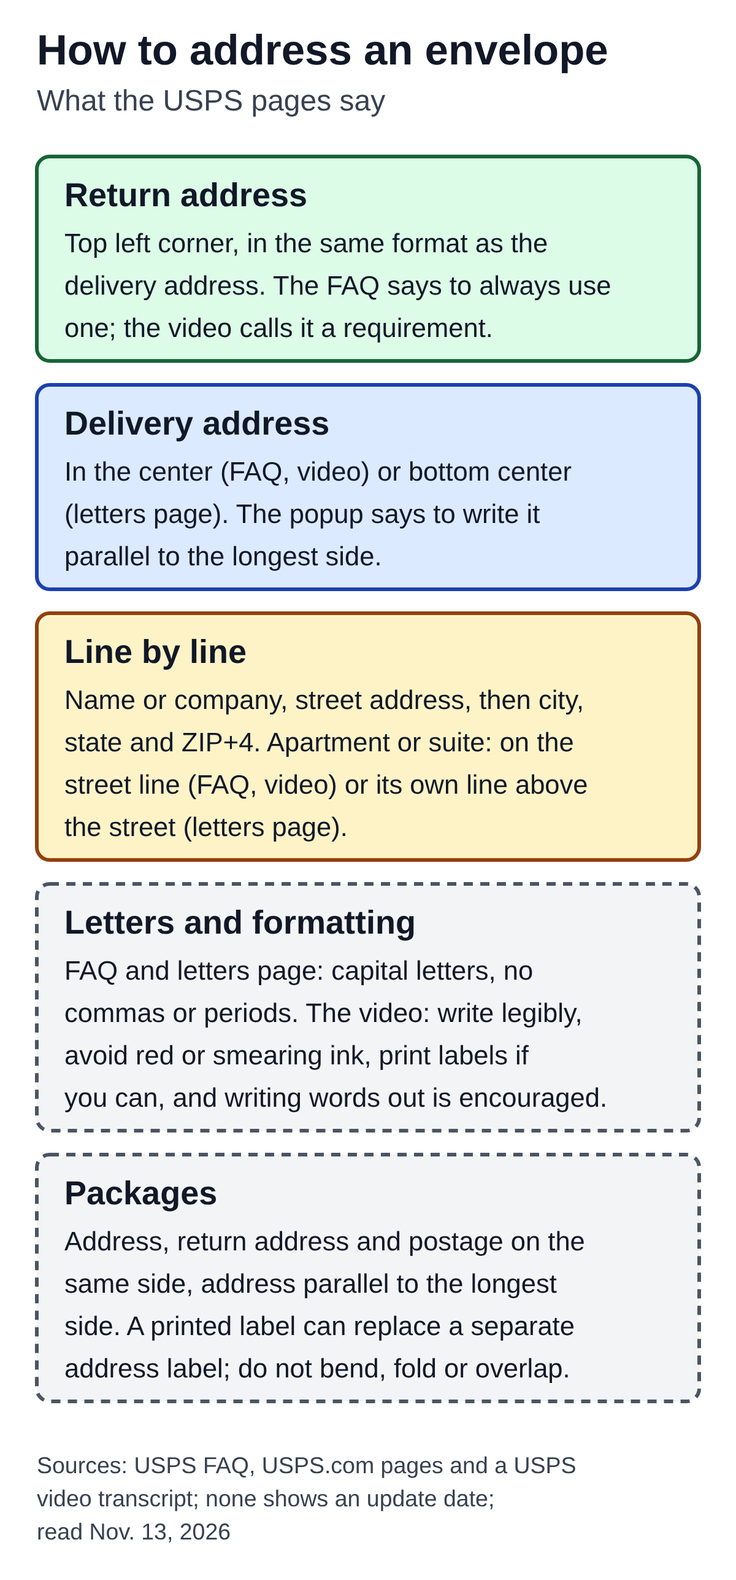
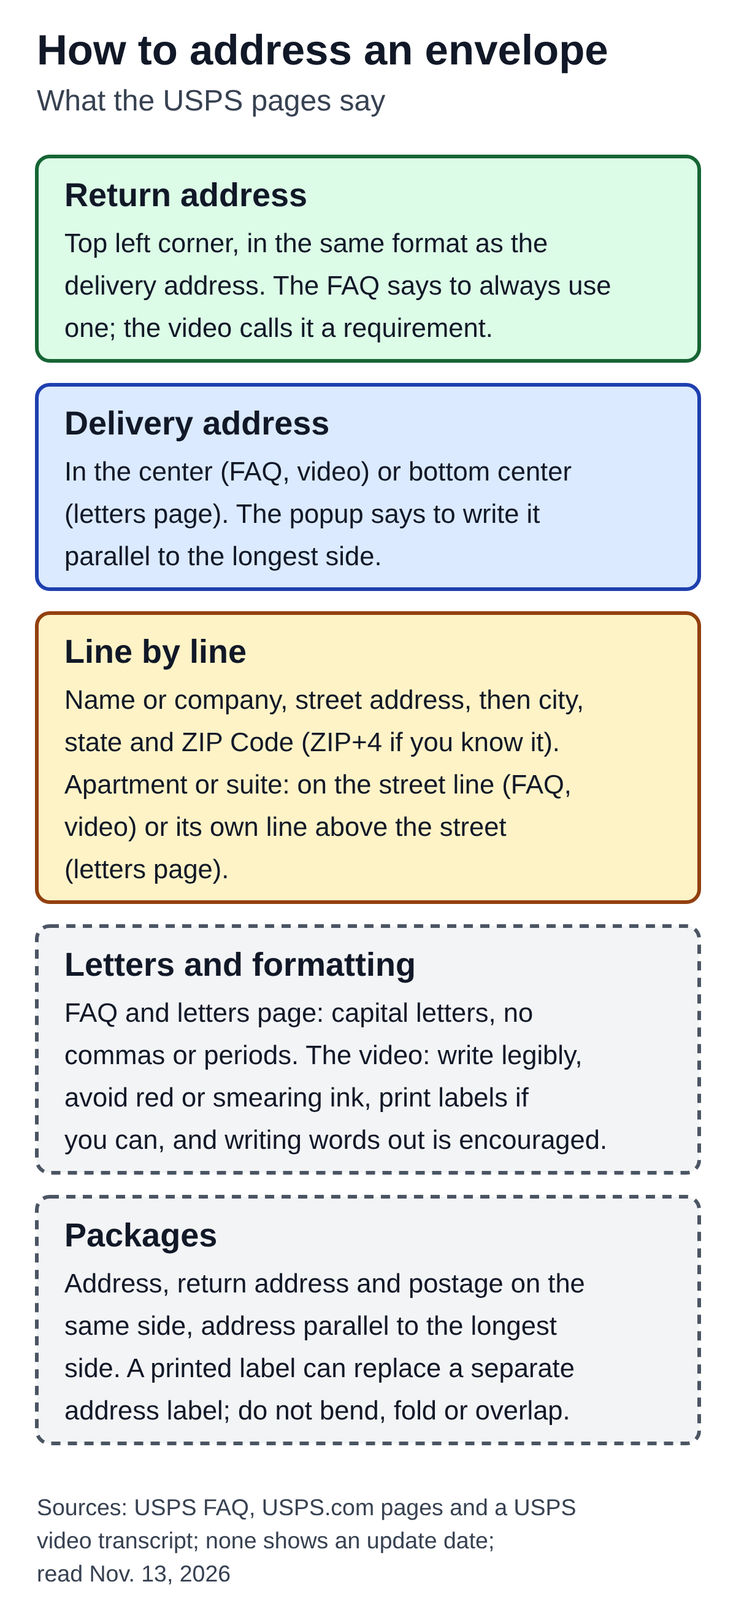
Gate 2 FIX for Missing Mail and how-to-address-an-envelope drafts
Missing Mail: scope the 60-day claim sentence to damaged or missing contents, link the application page, point to USPS File a Claim. Envelope: ZIP+4 only if known (lead, diagram, alt), add a fictional addressed-envelope example with a second image. QA records updated.

Claude-Session: https://claude.ai/code/session_01BXtGEA3Qzg6u2ejRb8jbFU

diff --git a/content/drafts/how-to-address-an-envelope-usps.md b/content/drafts/how-to-address-an-envelope-usps.md
@@ -8,16 +8,18 @@ status: draft
 date: 2026-11-13
 internal_link_candidates: forever-stamp-how-it-works (linked in the body); usps-missing-mail-search-how-it-works (link after it is published)
 image: assets/optimized/how-to-address-an-envelope-usps.png
-image_alt: "Diagram of what USPS pages say about addressing an envelope. Return address: top left corner, in the same format as the delivery address; the FAQ says to always use one and the video calls it a requirement. Delivery address: in the center (FAQ, video) or bottom center (letters page); the popup says to write it parallel to the longest side. Line by line: name or company, street address, then city, state and ZIP+4; the apartment or suite goes on the street line (FAQ, video) or on its own line above the street (letters page). Letters and formatting: the FAQ and letters page say capital letters and no commas or periods; the video says to write legibly, avoid red or smearing ink, print labels if you can, and that writing words out is encouraged. Packages: address, return address and postage on the same side, address parallel to the longest side; a printed label can replace a separate address label, and labels should not be bent, folded or overlapped. Sources: a USPS FAQ, USPS.com pages and a USPS video transcript; none shows an update date; read Nov. 13, 2026."
+image_alt: "Diagram of what USPS pages say about addressing an envelope. Return address: top left corner, in the same format as the delivery address; the FAQ says to always use one and the video calls it a requirement. Delivery address: in the center (FAQ, video) or bottom center (letters page); the popup says to write it parallel to the longest side. Line by line: name or company, street address, then city, state and ZIP Code (ZIP+4 if you know it); the apartment or suite goes on the street line (FAQ, video) or on its own line above the street (letters page). Letters and formatting: the FAQ and letters page say capital letters and no commas or periods; the video says to write legibly, avoid red or smearing ink, print labels if you can, and that writing words out is encouraged. Packages: address, return address and postage on the same side, address parallel to the longest side; a printed label can replace a separate address label, and labels should not be bent, folded or overlapped. Sources: a USPS FAQ, USPS.com pages and a USPS video transcript; none shows an update date; read Nov. 13, 2026."
+image_2: assets/optimized/how-to-address-an-envelope-usps-example.png
+image_2_alt: "Fictional example of an addressed envelope, following the USPS FAQ format. Top left, return address: JANE SAMPLE, 100 MAIN ST APT 2, ANYTOWN NY 12345-6789. Upper right: where the stamp goes. In the center, delivery address: JOHN EXAMPLE, 250 OAK AVE, OTHERTOWN CA 90001. The first ZIP Code is shown with ZIP+4 and the second as a 5-digit ZIP Code, which is what the FAQ says to use when the ZIP+4 is not known. Both names and addresses are made up."
 ---
 
 # How to Address an Envelope: What USPS Says About Format and Placement
 
-**USPS's pages agree on the basics: put the return address in the top left corner, put the delivery address in the middle of the envelope (one page says "bottom center"), and end the address with the city, state and ZIP+4 Code.** They differ on smaller points, such as where an apartment number goes and whether to write words out or abbreviate.
+**USPS's pages agree on the basics: put the return address in the top left corner, put the delivery address in the middle of the envelope (one page says "bottom center"), and end the address with the city, state and ZIP Code, using ZIP+4 if you know it.** They differ on smaller points, such as where an apartment number goes and whether to write words out or abbreviate.
 
 This article covers what five USPS pages say: the FAQ "Addressing Mailpieces" (Article 000008202), the USPS.com page "How to Send a Letter or Postcard," the short USPS.com popup on addressing an envelope, the transcript of the USPS video "How to Address a Package," and step 4 of the USPS.com page "How to Prepare & Send a Package." None of the five shows an update date. The wording is as of November 13, 2026. The article shows where the pages differ instead of choosing one. It gives no postage prices (the letters page lists some, and they are not used here), and it leaves out the FAQ's rules for mailers who get automation discounts.
 
-![Diagram of what USPS pages say about addressing an envelope. Return address: top left corner, in the same format as the delivery address; the FAQ says to always use one and the video calls it a requirement. Delivery address: in the center (FAQ, video) or bottom center (letters page); the popup says to write it parallel to the longest side. Line by line: name or company, street address, then city, state and ZIP+4; the apartment or suite goes on the street line (FAQ, video) or on its own line above the street (letters page). Letters and formatting: the FAQ and letters page say capital letters and no commas or periods; the video says to write legibly, avoid red or smearing ink, print labels if you can, and that writing words out is encouraged. Packages: address, return address and postage on the same side, address parallel to the longest side; a printed label can replace a separate address label, and labels should not be bent, folded or overlapped. Sources: a USPS FAQ, USPS.com pages and a USPS video transcript; none shows an update date; read Nov. 13, 2026.](assets/optimized/how-to-address-an-envelope-usps.png)
+![Diagram of what USPS pages say about addressing an envelope. Return address: top left corner, in the same format as the delivery address; the FAQ says to always use one and the video calls it a requirement. Delivery address: in the center (FAQ, video) or bottom center (letters page); the popup says to write it parallel to the longest side. Line by line: name or company, street address, then city, state and ZIP Code (ZIP+4 if you know it); the apartment or suite goes on the street line (FAQ, video) or on its own line above the street (letters page). Letters and formatting: the FAQ and letters page say capital letters and no commas or periods; the video says to write legibly, avoid red or smearing ink, print labels if you can, and that writing words out is encouraged. Packages: address, return address and postage on the same side, address parallel to the longest side; a printed label can replace a separate address label, and labels should not be bent, folded or overlapped. Sources: a USPS FAQ, USPS.com pages and a USPS video transcript; none shows an update date; read Nov. 13, 2026.](assets/optimized/how-to-address-an-envelope-usps.png)
 
 ## Where each part goes
 
@@ -38,9 +40,15 @@ The pages do not say how far from the edge anything should sit, so "center" and 
 
 ## Line by line
 
-The letters page lists four lines for both the return and the delivery address: the full name or company name, the apartment or suite number, the full street address, and the city, state and ZIP+4 Code. The FAQ describes the same parts with one difference in order: it prefers the apartment, suite, room or floor number on the same line as, and after, the street address, and says the line above the street address is also allowed, "not below." The video transcript agrees with the FAQ that the number "can be added on the same line." So the pages allow the apartment number on the street line (FAQ, video), on its own line above the street (letters page and FAQ), but not below it (FAQ).
+The letters page lists four lines for both the return and the delivery address: the full name or company name, the apartment or suite number, the full street address, and the city, state and ZIP+4 Code (it also says to include the ZIP+4 Code "whenever possible"). The FAQ describes the same parts with one difference in order: it prefers the apartment, suite, room or floor number on the same line as, and after, the street address, and says the line above the street address is also allowed, "not below." The video transcript agrees with the FAQ that the number "can be added on the same line." So the pages allow the apartment number on the street line (FAQ, video), on its own line above the street (letters page and FAQ), but not below it (FAQ).
 
-The FAQ also says to use two-letter state abbreviations and a ZIP+4 Code "if known," otherwise the ZIP Code. The video transcript points to the USPS.com Look Up a ZIP Code tool if the ZIP+4 is unknown. The FAQ says that leaving the ZIP Code off "causes unnecessary delay because it will require manual look-up." For street directions such as north or south, the FAQ says to "always use applicable directionals," and the video says directional words "are required."
+The FAQ also says to use two-letter state abbreviations and a ZIP+4 Code "if known," and otherwise the ZIP Code, so the instruction when the ZIP+4 is not known is to use the five-digit ZIP Code. The video transcript points to the USPS.com Look Up a ZIP Code tool if the ZIP+4 is unknown. The FAQ says that leaving the ZIP Code off "causes unnecessary delay because it will require manual look-up." For street directions such as north or south, the FAQ says to "always use applicable directionals," and the video says directional words "are required."
+
+## A fictional example
+
+The picture below shows one envelope laid out the way the FAQ describes it. The names and addresses are made up. The return address (Jane Sample) is in the top left corner, the stamp is in the upper right corner, and the delivery address (John Example) is in the center. Both are in capital letters with no punctuation, two-letter states, and the apartment number on the street line after the street address. The return address shows a ZIP+4 Code; the delivery address shows only a five-digit ZIP Code, which is what the FAQ says to use when the ZIP+4 is not known. If you prefer the letters page's layout, the apartment number goes on its own line above the street address, and that page puts the delivery address "bottom center" instead of in the center.
+
+![Fictional example of an addressed envelope, following the USPS FAQ format. Top left, return address: JANE SAMPLE, 100 MAIN ST APT 2, ANYTOWN NY 12345-6789. Upper right: where the stamp goes. In the center, delivery address: JOHN EXAMPLE, 250 OAK AVE, OTHERTOWN CA 90001. The first ZIP Code is shown with ZIP+4 and the second as a 5-digit ZIP Code, which is what the FAQ says to use when the ZIP+4 is not known. Both names and addresses are made up.](assets/optimized/how-to-address-an-envelope-usps-example.png)
 
 ## Capital letters, punctuation and abbreviations
 

diff --git a/content/drafts/usps-missing-mail-search-how-it-works.md b/content/drafts/usps-missing-mail-search-how-it-works.md
@@ -15,7 +15,7 @@ image_alt: "Diagram of what USPS pages say about a Missing Mail search. First, c
 
 **USPS says a Missing Mail search request can be filed online starting 7 days after the mailing date and up to 365 days after it.** USPS also says that submitting a search "does not guarantee a successful outcome," and that sometimes it cannot find the item.
 
-This article covers what two USPS pages say: the USPS FAQ "Missing Mail - The Basics" (Article 000007968, dated May 19, 2026) and the USPS.com page "Find Missing Mail" (no update date shown). The wording is as of November 13, 2026. The two pages overlap but are not identical, and the article shows where they differ instead of choosing one. It gives no prices. It does not cover claims and refunds in detail, the USPS Mail Recovery Center, international mail, or packages that tracking shows as delivered.
+This article covers what two USPS pages say about the search: the USPS FAQ "Missing Mail - The Basics" (Article 000007968, dated May 19, 2026) and the USPS.com page "Find Missing Mail" (no update date shown). It also points to a third page, USPS.com "File a Claim," for claims. The wording is as of November 13, 2026. The two search pages overlap but are not identical, and the article shows where they differ instead of choosing one. It gives no prices. It does not cover claims and refunds in detail, the USPS Mail Recovery Center, international mail, or packages that tracking shows as delivered.
 
 ![Diagram of what USPS pages say about a Missing Mail search. First, check tracking: both pages say to check USPS Tracking first, and the FAQ lists waits for some services (Priority Mail Express 7 or more days, Domestic Registered Mail 14 or more, Parcel Select 14 or more). File online: sign in or register at MissingMail.USPS.com; earliest 7 days after mailing, latest 365 days after mailing; drafts expire after 7 days; Customer Care cannot file it for you. Have ready: sender and recipient addresses, mailing date, tracking numbers if you have them, container type, size and color, a detailed description of the contents, and photos if available. USPS says it cannot search for hazardous material, live ammunition, opened hair or beauty products, over-the-counter or prescription drugs, perishables or food; handguns are returned only to a licensed dealer. After you submit: statuses are Accepted, Mailpiece Found, Expired, Rejected and Canceled; a search runs until it expires; USPS says a search does not guarantee a successful outcome. Sources: USPS FAQ dated May 19, 2026 and USPS.com, read Nov. 13, 2026.](assets/optimized/usps-missing-mail-search-how-it-works.png)
 
@@ -23,7 +23,7 @@ This article covers what two USPS pages say: the USPS FAQ "Missing Mail - The Ba
 
 Both pages put tracking first. USPS.com says that if the package or mail has tracking, check USPS Tracking for its current status before starting a search. The FAQ says to check USPS Tracking before taking the actions it describes. USPS.com adds a line for Informed Delivery users: a mail item may sometimes be delayed, and it points to the Informed Delivery FAQs (our [Informed Delivery article](https://statesideexplained.com/usps-informed-delivery-how-it-works/) covers that service).
 
-The FAQ defines Missing Mail as "mail that has not been delivered by the expected delivery date," which it says includes packages that are undelivered, lost or late. If it has been lost, late or missing for 7 days or more, the FAQ lists four options: submit a search request at MissingMail.USPS.com, read the article on the USPS Mail Recovery Center, file a claim (for insured items meeting the appropriate timeframe), or visit a local Post Office.
+The FAQ defines Missing Mail as "mail that has not been delivered by the expected delivery date," which it says includes packages that are undelivered, lost or late. If it has been lost, late or missing for 7 days or more, the FAQ lists four options: submit a search request at [MissingMail.USPS.com](https://missingmail.usps.com/), read the article on the USPS Mail Recovery Center, file a claim (for insured items meeting the appropriate timeframe), or visit a local Post Office.
 
 The FAQ then gives a table by service. In the table below, "wait" is the time the FAQ says to allow, and the last column is what the FAQ says comes next.
 
@@ -46,7 +46,7 @@ The FAQ lists these items: the mailer and recipient addresses; the date of maili
 
 ## How to file, and who cannot do it for you
 
-The FAQ says to go to MissingMail.USPS.com and sign in or register, complete the form and submit it. You can save a draft, but drafts expire after 7 days. The FAQ also says that Customer Care representatives are not able to submit a Missing Mail search request for you. USPS.com says USPS sends a confirmation email when it receives the request and periodic updates about the search.
+The FAQ says to go to [MissingMail.USPS.com](https://missingmail.usps.com/) (the USPS search request page) and sign in or register, complete the form and submit it. You can save a draft, but drafts expire after 7 days. The FAQ also says that Customer Care representatives are not able to submit a Missing Mail search request for you. USPS.com says USPS sends a confirmation email when it receives the request and periodic updates about the search.
 
 ## What USPS says it cannot search for
 
@@ -60,7 +60,9 @@ A single request can list several items inside one mailpiece, but separate mailp
 
 ## Claims and refunds
 
-USPS.com has two more sections under the search steps. For a service with a money-back guarantee, such as Priority Mail Express, it says you may be able to request a refund. For insured mail, it says you may be able to file an insurance claim and that USPS recommends filing "immediately," but "you must file no later than 60 days from the date of mailing." The FAQ's wording is shorter: file a claim "for insured items meeting the appropriate timeframe," with no number. The FAQ also lists "Domestic Claims - The Basics" as a related article, which this article did not read.
+USPS.com has two more sections under the search steps. For a service with a money-back guarantee, such as Priority Mail Express, it says you may be able to request a refund. For mail that included insurance, it says you may be able to file an insurance claim. It then adds a sentence that is limited to "damaged or missing contents": for those, USPS recommends filing a claim "immediately," and says "you must file no later than 60 days from the date of mailing." The page ties that 60-day sentence to damaged or missing contents, so it is not treated here as a deadline for every lost or late item. The FAQ's wording is shorter: file a claim "for insured items meeting the appropriate timeframe," with no number.
+
+For the claim rules themselves, USPS has a separate page, [File a Claim](https://www.usps.com/help/claims.htm). It separates two cases: if an item arrives damaged or is missing contents, it says you must file no later than 60 days after the mailing date; if an item does not arrive at all, it says to file in the time period for the service you used, which differs by service. This article gives no claim amounts or filing periods beyond that. The FAQ also lists "Domestic Claims - The Basics" as a related article, which this article did not read.
 
 ## What the pages do not say
 
@@ -70,3 +72,4 @@ Neither page gives how long a search stays active: the FAQ says a search expires
 
 - USPS FAQ, "Missing Mail - The Basics" (Article 000007968, May 19, 2026): https://faq.usps.com/s/article/Missing-Mail-The-Basics
 - USPS.com, "Find Missing Mail" (no update date): https://www.usps.com/help/missing-mail.htm
+- USPS.com, "File a Claim" (no update date; only the two filing cases described above are used): https://www.usps.com/help/claims.htm

diff --git a/docs/content-backlog.md b/docs/content-backlog.md
@@ -66,7 +66,7 @@ Pilot 12 plan: 12 published + 0 ready + 0 draft + 0 briefs = 12 slots, 4 per lan
 | 30 | `usps-package-pickup-how-it-works` | How Does USPS Package Pickup Work? Free Pickup and Limits | `usps package pickup` | **published 2026-11-09** (post 109, media 108; Gate 1 PASS 24 of 24 claims; Gate 2 round 1 FIX on `5010b89` applied in `8fbce79`, re-check PASS on `8fbce79`; USPS FAQ, USPS.com packages and scheduling pages, DMM 116, 126, 136, 601 and Notice 123 re-read right before publishing, no change) | post-pilot (not counted) | Lane: postal service and stamps. Chosen 2026-11-09 with row 29. Three USPS pages (FAQ, USPS.com packages page, Schedule a Pickup page; none shows a date) plus Notice 123 linked only. No fee or price amount. Demand: Google Trends relative indexes only; search volume not checked. Difference shown, not resolved: FAQ cutoff "2:00 AM Central Time" vs "before 2:00 am" in the modify note. Media Mail is not named on the eligibility list; the article says nothing about it and links the Media Mail post. Re-read the three pages at approval and right before publishing. |
 | 31 | `tsa-locks-checked-bag-what-tsa-says` | Can You Lock a Checked Bag? What TSA Says About TSA Locks | `tsa lock` | **published 2026-11-13** (post 115, media 113; Gate 1 PASS 18 of 18 claims; Gate 2 FIX on `cd35086` applied in `baa6d7d`, re-check PASS on `baa6d7d`; three TSA pages re-read right before publishing, 43 of 43, no change) | post-pilot (not counted) | Lane: airport security rules. Chosen 2026-11-13 on the user's request for two non-overlapping TSA/airport and USPS candidates. Three TSA pages (Security Screening checked baggage section, Travel Tips "TSA recognized locks", Claims; none shows a date). Demand: Google Trends relative indexes only (tsa lock about 7.4 x the vape anchor, spiky); search volume not checked. Tension shown, not resolved: "may not have to be cut" against "will be forced to remove these products if necessary". No prices. Link: shoes and laptops post. Re-read the three pages at approval and right before publishing. |
 | 32 | `usps-holiday-shipping-deadlines-2026` | USPS Holiday Shipping Deadlines 2026: Send-By Dates for Christmas | `usps holiday shipping deadlines` | **published 2026-11-13** (post 116, media 114; Gate 1 PASS 17 of 17 claims; Gate 2 FIX on `cd35086` applied in `baa6d7d`, re-check PASS on `baa6d7d`; three USPS sources re-read right before publishing, 64 of 64 phrases, footnote placement unchanged) | post-pilot (not counted) | Lane: postal service and stamps. Chosen 2026-11-13 with row 31. Three sources: USPS.com page (no date), USPS release Sept. 22, 2026, USPS FAQ Oct. 14, 2026. Demand: Google Trends relative indexes only; the 12-month average is low (about 0.28 x) and the 2025 daily series ramps from mid-November with a peak Dec. 13 to 19, so chosen on seasonality; search volume not checked. Difference shown, not resolved: Priority Mail Express refund wording (USPS.com page against FAQ), each note named with the table it is attached to (Gate 2 FIX applied). Dated content: re-read all three sources right before publishing. Link: Package Pickup post. |
-| 33 | `usps-missing-mail-search-how-it-works` | USPS Missing Mail Search: When You Can File and What You Need | `usps missing mail` | draft (Gate 1 done 2026-11-13; waiting for Gate 2 by SHA; Gate 1 claims 16 of 16; both USPS sources tested again, 62 of 62 and 20 of 20 phrases plus absence tests) | post-pilot (not counted) | Lane: postal service and stamps. Chosen 2026-11-13 on the user's request for two non-overlapping candidates (re-compared with envelope addressing and free boxes). Two sources: USPS FAQ 000007968 (May 19, 2026) and USPS.com "Find Missing Mail" (no date). Demand: Google Trends relative indexes only (usps missing mail about 4.5 x the vape anchor, usps lost package about 2.8 x); search volume not checked. Differences shown, not resolved: the FAQ's 14-day rows against the 7-day application minimum; claim timing (60 days on USPS.com, "meeting the appropriate timeframe" in the FAQ); the handgun note. No prices. Links: Informed Delivery, Package Intercept, Certified Mail posts. Re-read both pages at approval and right before publishing. |
+| 33 | `usps-missing-mail-search-how-it-works` | USPS Missing Mail Search: When You Can File and What You Need | `usps missing mail` | draft (Gate 1 done 2026-11-13; waiting for Gate 2 by SHA; Gate 1 claims 16 of 16; both USPS sources tested again, 62 of 62 and 20 of 20 phrases plus absence tests) | post-pilot (not counted) | Lane: postal service and stamps. Chosen 2026-11-13 on the user's request for two non-overlapping candidates (re-compared with envelope addressing and free boxes). Two sources: USPS FAQ 000007968 (May 19, 2026) and USPS.com "Find Missing Mail" (no date). Demand: Google Trends relative indexes only (usps missing mail about 4.5 x the vape anchor, usps lost package about 2.8 x); search volume not checked. Differences shown, not resolved: the FAQ's 14-day rows against the 7-day application minimum; claim timing (USPS.com's 60 days is limited to damaged or missing contents of insured mail; the FAQ says "meeting the appropriate timeframe"); the handgun note. No prices. Links: Informed Delivery, Package Intercept, Certified Mail posts. Re-read both pages at approval and right before publishing. |
 | 34 | `how-to-address-an-envelope-usps` | How to Address an Envelope: What USPS Says About Format and Placement | `how to address an envelope` | draft (Gate 1 done 2026-11-13; waiting for Gate 2 by SHA; Gate 1 claims 19 of 19; five USPS sources tested again, 21 of 21, 18 of 18, 5 of 5, 14 of 14 and 3 of 3 phrases plus absence tests) | post-pilot (not counted) | Lane: postal service and stamps. Chosen 2026-11-13 with row 33. Five sources, none with an update date: USPS FAQ 000008202, USPS.com letters page, address popup, video transcript "How to Address a Package", package page step 4. Demand: Google Trends relative indexes only (how to address an envelope about 6.2 x the vape anchor, how to address a package about 3.9 x); search volume not checked. Differences shown, not resolved: center against bottom center; where the apartment number goes; abbreviations against writing words out; "always" and "a requirement" against "required on certain types of mail". Mailer rules left out; no prices (the letters page lists some, not used). Link: Forever stamp post. Re-read the five pages at approval and right before publishing. |
 
 ## Rejected

diff --git a/editorial/qa/usps-missing-mail-search-how-it-works.md b/editorial/qa/usps-missing-mail-search-how-it-works.md
@@ -29,7 +29,7 @@ After drafting, both pages were opened again in the built-in browser (2026-11-13
 | C11 | Unsearchable list (hazardous material, live ammunition, opened hair or beauty products, over-the-counter and prescription drugs, perishables and food) and the handgun note; "not safe to forward"; the recovery restrictions page was not read | S1; S2 | pass |
 | C12 | Six statuses and their meanings; updates by email to the address under "Whom can we contact about this search?"; final email; found items rewrapped and sent to the address on the form; not found: runs until it expires | S1 | pass |
 | C13 | Several items in one mailpiece in one request; separate mailpieces separate requests; only the contents can be edited, otherwise cancel and resubmit; cancel from Search History; no further matches after cancel | S1 | pass |
-| C14 | USPS.com: refund for money-back guarantee services such as Priority Mail Express; insured mail claim, "immediately," no later than 60 days from mailing; the FAQ says "meeting the appropriate timeframe" with no number | S2; S1 | pass |
+| C14 | USPS.com: refund for money-back guarantee services such as Priority Mail Express; insured mail may be claimed; the "immediately" and 60-day sentence is limited to "damaged or missing contents" (scope corrected after Gate 2); the FAQ says "meeting the appropriate timeframe" with no number | S2; S1 | pass (after FIX) |
 | C15 | Absence statements: no retention length, no update frequency, no find rate, no fee, no sentence on who may file; the FAQ intro says "whether you are sending it or receiving it" | S1; S2 (absence tested) | pass |
 | C16 | Domestic Claims article listed as related and not read | S1 | pass |
 
@@ -46,3 +46,10 @@ One H1 in the body, H2 sections only, a single 3-column table (mobile-safe, post
 - Confirm the handling of the Registered Mail and Parcel Select 14-day rows against the 7-day application rule (shown, not resolved).
 - Confirm the claim timing paragraph reads as a source difference and not as claim advice.
 - Dated rule post: both sources are re-read right before publishing; report before publishing if the window, the table, the unsearchable list, the statuses or the claim wording changed.
+
+## Gate 2 FIX on `a2f1755` (applied 2026-11-13)
+
+1. **Scope of the 60-day claim sentence.** The reviewer read the draft as applying 60 days to all insured mail. Cause: the draft quoted the sentence without its lead-in. USPS.com's sentence begins "For damaged or missing contents" (S2 page text, tested again). Fix: the Claims and refunds section now says the sentence is limited to damaged or missing contents of insured mail, says it is not treated as a deadline for every lost or late item, and points to USPS "File a Claim" (S3, https://www.usps.com/help/claims.htm). S3 was fetched and tested 6 of 6 phrases (no update date): it separates "Damaged or Missing Contents" (no later than 60 days after the mailing date) from "Lost Mail or Package" (the time period for the service used); no table value is used. The Sources list, the scope paragraph, the brief, the backlog row and the candidates note were changed to match.
+2. **Application link.** The two body mentions of MissingMail.USPS.com are now links to https://missingmail.usps.com/, the target of "Start Your Missing Mail Search" on S2 (the link target was read from the page; a no-cors request returns an opaque response, so only the page's own href is relied on).
+3. **FAQ check.** The reviewer could not open the FAQ. It opened for Claude on 2026-11-13 and was tested 62 of 62 (the only miss is the related-articles title outside the article body), including the 7 and 365 day window, the per-service table and the unsearchable list; the verbatim lines are in the source notes (S1). Re-read the FAQ right before publishing.
+Changed parts only: the scope paragraph, the two links, the Claims and refunds section and the Sources list. The diagram and its alt do not mention claims and are unchanged.

diff --git a/research/sources/usps-missing-mail-search-how-it-works.md b/research/sources/usps-missing-mail-search-how-it-works.md
@@ -27,13 +27,18 @@ URL https://www.usps.com/help/missing-mail.htm. No update date; an ALERT banner 
 Step 1: "if your package or mail has tracking, check USPS Tracking to see its current status"; Informed Delivery users: "There may be occasions where a mail item may be delayed in reaching its destination. For additional information, please visit Informed Delivery FAQs."
 Step 2: "Missing Mail search requests can be submitted starting 7 days from mailing." Information: sender mailing address; recipient mailing address; size and type of container or envelope; identifying information such as the USPS Tracking number(s), the mailing date from the mailing receipt or Click-N-Ship label receipt; description of the contents (brand, model, color, size); pictures.
 Next: a confirmation email and periodic updates; "If we find your package or mail, we will send it to the address you provided. Please note, sometimes we cannot find missing mail items. It is also possible that your package or mail will not be recovered because it was not safe to forward." Link: "Missing Mail Recovery Restrictions" (not read).
+Link targets on the page: "Start Your Missing Mail Search" goes to https://missingmail.usps.com/; "Filing a Claim" goes to https://www.usps.com/help/claims.htm.
 Requesting a Refund: "If you used a service with a money-back guarantee such as Priority Mail Express, you may be able to request a refund."
-File a Claim: "If your mail or package included insurance, you may be able to file an insurance claim. For damaged or missing contents, we recommend filing a claim immediately, but you must file no later than 60 days from the date of mailing."
+File a Claim: "If your mail or package included insurance, you may be able to file an insurance claim. For damaged or missing contents, we recommend filing a claim immediately, but you must file no later than 60 days from the date of mailing." The 60-day sentence begins "For damaged or missing contents" and is limited to that case (Gate 2 FIX on a2f1755).
 Absence tests: no "365", no fee or cost, no "fourteen" or "14 days", no "retention", no update date.
 
 ## Differences shown in the article (not resolved)
 
 1. FAQ table: allow 14 or more days (Registered Mail, Parcel Select) and 7 or more (Priority Mail Express); the application accepts requests from day 7 (FAQ, USPS.com).
 2. FAQ gives the 365-day latest day; USPS.com gives only the 7-day start.
-3. Claim timing: FAQ "meeting the appropriate timeframe"; USPS.com "no later than 60 days from the date of mailing."
+3. Claim timing: the FAQ says "meeting the appropriate timeframe" with no number; USPS.com gives 60 days only for damaged or missing contents. The article does not apply the 60 days to every lost item (Gate 2 FIX).
 4. The FAQ's list of items USPS "cannot search for or return" includes handguns, with a note that they are returned only to a licensed dealer.
+
+## S3 — USPS.com, "File a Claim" (primary, official; added after Gate 2 FIX on `a2f1755`, pointer only)
+
+URL https://www.usps.com/help/claims.htm (reached from the "Filing a Claim" link on S2). Fetched and tested 2026-11-13; no update date. Section "Filing Periods": "Each mail service has a different filing period. The filing period is based on the mailing date on your receipt and whether your package arrived damaged." "Damaged or Missing Contents: If your item arrives damaged or is missing contents, you may file a claim immediately but must file no later than 60 days after the mailing date." "Lost Mail or Package: If your item does not arrive at all, file a claim in the time period for the service you used." The page has a table of filing periods by service; none of its values is used. Used only for the two cases above and as the link target for claims.

diff --git a/editorial/qa/how-to-address-an-envelope-usps.md b/editorial/qa/how-to-address-an-envelope-usps.md
@@ -1,6 +1,6 @@
 # QA record — how-to-address-an-envelope-usps
 
-Article: `content/drafts/how-to-address-an-envelope-usps.md` (draft, 2026-11-13; about 1,230 body words without the alt text; one H1, eight H2 sections; one table of 3 columns).
+Article: `content/drafts/how-to-address-an-envelope-usps.md` (draft, 2026-11-13; about 1,400 body words without the alt texts; one H1, nine H2 sections; one table of 3 columns; two images).
 Brief: `research/briefs/how-to-address-an-envelope-usps.md`. Sources: `research/sources/how-to-address-an-envelope-usps.md` (S1 USPS FAQ 000008202; S2 USPS.com letters page; S3 USPS.com popup; S4 USPS video transcript; S5 USPS.com packages page, step 4; none shows an update date).
 Stage: **draft, Gate 1 done 2026-11-13; waiting for Gate 2 (by SHA).** Rule-type post: re-read the five sources right before publishing.
 
@@ -49,3 +49,9 @@ One H1, H2 sections only, a single 3-column table (mobile-safe), prose with a bu
 - Confirm that the apartment number paragraph reads as a source difference (FAQ: same line preferred, line above allowed; letters page: its own line above) and not as a recommendation.
 - Confirm the "always" against "required on certain types of mail" paragraph is shown without resolving.
 - Dated rule post: re-read the five pages right before publishing; report before publishing if the placement, apartment, capitals, return address or foreign return address wording changed.
+
+## Gate 2 FIX on `a2f1755` (applied 2026-11-13)
+
+1. **ZIP+4 read as required.** The lead answer and the diagram's "Line by line" card said "ZIP+4". The FAQ says: "Use a ZIP+4 ZIP Code (if known) on last line following city and state. Otherwise, use the ZIP Code." (S1, tested again). Fix: the lead now says "city, state and ZIP Code, using ZIP+4 if you know it"; the diagram card reads "state and ZIP Code (ZIP+4 if you know it)"; the front-matter alt and the body alt were changed together and are equal (checked by script); the line-by-line paragraph quotes the letters page's "whenever possible" and says the FAQ's instruction when ZIP+4 is not known is the five-digit ZIP Code. The letters page's four-line list is still described as the letters page's own wording.
+2. **Fictional example added.** New section "A fictional example" and a second image, `assets/optimized/how-to-address-an-envelope-usps-example.png` (800 px SVG, 1200 px PNG, render check `[]`, viewed; C2PA stripped, hashes verified: PNG 174,620 bytes, SVG 2,542 bytes; the main diagram is now PNG 457,398 and SVG 3,782 bytes). It shows made-up names and addresses (Jane Sample, John Example; Anytown NY; Othertown CA): return address top left, stamp upper right, delivery address in the center, capital letters, no punctuation, two-letter states, the apartment number on the street line after the street address. Each element is traced to S1: center, upper right postage, all CAPS and no punctuation, two-letter state, apartment on the same line after the street address, ZIP+4 if known and otherwise the ZIP Code; the return address in the top left is from S2 and S3. The text also says the letters page puts the apartment number on its own line above the street and the delivery address "bottom center". The second ZIP Code in the example is five digits on purpose and the image says so. No real person or address is intended; no price is shown. Front matter now has `image_2` and `image_2_alt` (body alt equals front-matter alt for both images).
+Changed parts only: the lead, the line-by-line and ZIP paragraphs, the new example section, the main diagram card, both alt texts, and the example image. Re-read the five pages right before publishing.

diff --git a/docs/next-candidates-2026-11-13-b.md b/docs/next-candidates-2026-11-13-b.md
@@ -26,7 +26,7 @@ Google Trends (US, past 12 months to 2026-11-13, weekly values, 0 to 100, scaled
 ## Why these two
 
 - **How to address an envelope.** The highest evergreen reading of the surveys (about 6.2 x; no zero week) and a plain reader question. The earlier survey held it back because the FAQ "Addressing Mailpieces" mixes consumer guidance with mailer rules; this time five USPS pages were read (the FAQ, the letters page, the address popup, a video transcript and the package page, step 4) and the mailer parts are left out. The pages show real differences that can be shown without a price: "center" against "bottom center", where the apartment number goes, "always use abbreviated locators" against "writing the words is encouraged", and "always use a return address" against "required on certain types of mail". Caveat: none of the five pages has an update date, which the article says. The letters page lists postage prices; none are used. No overlap with a live post (repo grep for address an envelope, return address and how to address found only incidental mentions).
-- **USPS Missing Mail search.** About 4.5 x on average, steady rather than seasonal, with the related "usps lost package" at about 2.8 x. Two official pages are current (the FAQ is dated May 19, 2026) and agree on the core rule (7 to 365 days). They differ in ways worth showing: the FAQ's per-service wait table (7 days for Priority Mail Express, 14 for Registered Mail and Parcel Select) against the application's 7-day minimum, the claim timing (60 days on USPS.com, "meeting the appropriate timeframe" in the FAQ), and the handgun note. No overlap with a live post (Package Intercept is a different service and is linked, not repeated).
+- **USPS Missing Mail search.** About 4.5 x on average, steady rather than seasonal, with the related "usps lost package" at about 2.8 x. Two official pages are current (the FAQ is dated May 19, 2026) and agree on the core rule (7 to 365 days). They differ in ways worth showing: the FAQ's per-service wait table (7 days for Priority Mail Express, 14 for Registered Mail and Parcel Select) against the application's 7-day minimum, the claim timing (USPS.com gives 60 days only for damaged or missing contents of insured mail; the FAQ says "meeting the appropriate timeframe"), and the handgun note. No overlap with a live post (Package Intercept is a different service and is linked, not repeated).
 
 ## Considered and not chosen now
 

diff --git a/research/briefs/usps-missing-mail-search-how-it-works.md b/research/briefs/usps-missing-mail-search-how-it-works.md
@@ -32,7 +32,7 @@ Own diagram: cards for tracking first, file online, have ready, items USPS says 
 
 - The FAQ's table gives 14 days for Registered Mail and Parcel Select while the application's earliest day is 7; the FAQ does not reconcile them. Shown, not resolved (Gate 1 absence-tested: the FAQ has no sentence linking the two).
 - The FAQ lists handguns among items USPS "cannot search for or return" but adds "will only be returned to a licensed dealer on your behalf." Shown with both wordings.
-- USPS.com says claims must be filed within 60 days of mailing; the FAQ says "meeting the appropriate timeframe" with no number. Shown, not resolved; no claim advice.
+- USPS.com's 60-day sentence is limited to damaged or missing contents of insured mail (the page says "For damaged or missing contents"); the FAQ says "meeting the appropriate timeframe" with no number. The article scopes the 60 days exactly, does not apply it to every lost item, and points to the USPS "File a Claim" page for the rules (added after Gate 2 FIX). No claim advice.
 - No update date on USPS.com; the FAQ date (May 19, 2026) is the only date.
 - Wording that reads as a guarantee: USPS says a search "does not guarantee a successful outcome"; the article and diagram say so and promise nothing.
 
